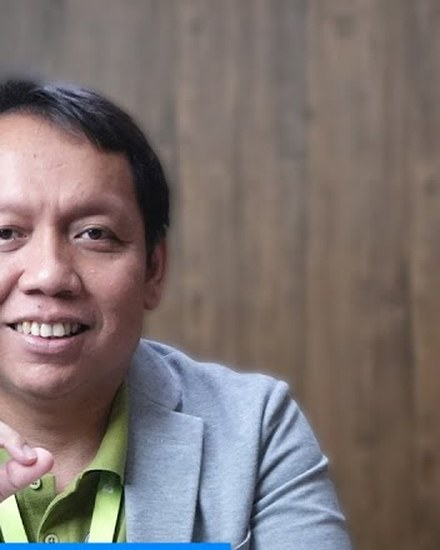
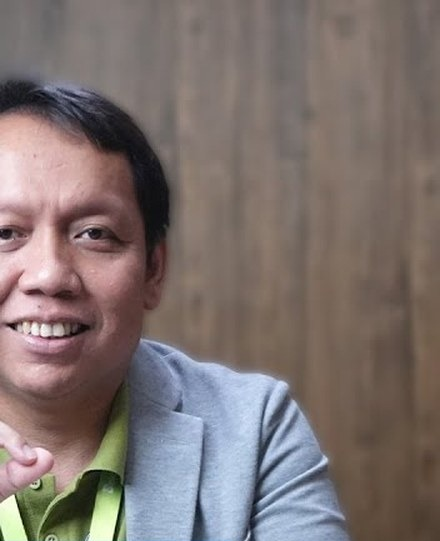
Testimonial photos: WSE AI lounge, Hargyo centered, brand cleanup, Matana in Education row

diff --git a/industries/education/index.html b/industries/education/index.html
@@ -264,7 +264,7 @@
 <section class="ih-trust" aria-labelledby="trust-h">
   <div class="wrap">
     <h2 class="ih-trust__h" id="trust-h"><span>Trusted by leading schools, universities and brands</span></h2>
-    <ul class="tlg tlg--row tlg--strong"><li><img class="tlg__tall" src="./assets/logos/wall-street-english.png" alt="Wall Street English" width="206" height="143" loading="lazy"></li><li><img src="./assets/logos/politeknik-multimedia-nusantara.png" alt="Multimedia Nusantara Polytechnic" width="354" height="160" loading="lazy"></li><li><img class="tlg__wide" src="./assets/logos/sekolah-ciputra.png" alt="Sekolah Ciputra" width="320" height="40" loading="lazy"></li><li><img src="./assets/logos/telkom-university.png" alt="Telkom University" width="208" height="73" loading="lazy"></li><li><img src="./assets/logos/sbm-itb.png" alt="SBM ITB" width="169" height="55" loading="lazy"></li></ul>
+    <ul class="tlg tlg--row tlg--strong"><li><img class="tlg__tall" src="./assets/logos/wall-street-english.png" alt="Wall Street English" width="206" height="143" loading="lazy"></li><li><img src="./assets/logos/politeknik-multimedia-nusantara.png" alt="Multimedia Nusantara Polytechnic" width="354" height="160" loading="lazy"></li><li><img class="tlg__wide" src="./assets/logos/sekolah-ciputra.png" alt="Sekolah Ciputra" width="320" height="40" loading="lazy"></li><li><img src="./assets/logos/telkom-university.png" alt="Telkom University" width="208" height="73" loading="lazy"></li><li><img src="./assets/logos/sbm-itb.png" alt="SBM ITB" width="169" height="55" loading="lazy"></li><li><img src="./assets/logos/matana-university-mono.png" alt="Matana University" width="800" height="294" loading="lazy"></li></ul>
     <p class="tlg__lbl"><span>Other brands</span></p>
     <div class="tlm" aria-label="Other brands using Cekat">
       <div class="tlm__track"><ul class="tlm__list"><li><img src="./assets/logos/thomson-hospital-kota-damansara.png" alt="Thomson Hospital Kota Damansara" width="400" height="169" style="height:29px" loading="lazy"></li><li><img src="./assets/logos/euromedica.png" alt="EuroMedica" width="108" height="40" style="height:27px" loading="lazy"></li><li><img src="./assets/logos/orange-dental.png" alt="Orange Dental" width="211" height="70" style="height:25px" loading="lazy"></li><li><img src="./assets/logos/vio-optical-clinic.png" alt="VIO Optical Clinic" width="324" height="160" style="height:31px" loading="lazy"></li><li><img src="./assets/logos/dokterhub.png" alt="DokterHub" width="400" height="85" style="height:21px" loading="lazy"></li><li><img src="./assets/logos/siloam.png" alt="Siloam Hospitals" width="317" height="50" style="height:19px" loading="lazy"></li><li><img src="./assets/logos/sozo-dental.svg" alt="Sozo Dental" width="114" height="21" style="height:20px" loading="lazy"></li><li><img src="./assets/logos/sociamedic.png" alt="Sociamedic Clinic" width="502" height="170" style="height:26px" loading="lazy"></li><li><img src="./assets/logos/moir-salon.png" alt="Moir Salon" width="676" height="160" style="height:22px" loading="lazy"></li><li><img class="tlm__mark" src="./assets/logos/bosch-car-service.png" alt="" width="384" height="384" style="height:24px" loading="lazy"><span>Bosch Car Service</span></li><li><img src="./assets/logos/celcomdigi.png" alt="CelcomDigi" width="632" height="192" style="height:25px" loading="lazy"></li><li><img class="tlm__mark" src="./assets/logos/tone-wow-mark.png" alt="" width="96" height="96" style="height:24px" loading="lazy"><span>Tone Wow</span></li><li><img src="./assets/logos/propertyguru.png" alt="PropertyGuru" width="274" height="64" style="height:22px" loading="lazy"></li><li><img src="./assets/logos/itsu.png" alt="ITSU" width="250" height="91" style="height:28px" loading="lazy"></li><li><img src="./assets/logos/gamal.png" alt="GAMAL" width="800" height="200" style="height:20px" loading="lazy"></li><li><img class="tlm__mark" src="./assets/logos/midas-cuan.png" alt="" width="192" height="192" style="height:24px" loading="lazy"><span>Midas Cuan</span></li><li><img src="./assets/logos/natures-craft.png" alt="Nature's Craft" width="187" height="198" style="height:36px" loading="lazy"></li><li><img src="./assets/logos/gps-supertrack.png" alt="GPS Supertrack" width="160" height="25" style="height:17px" loading="lazy"></li><li><img src="./assets/logos/kopi-kenangan.png" alt="Kopi Kenangan" width="325" height="160" style="height:31px" loading="lazy"></li><li><img src="./assets/logos/jago.png" alt="Bank Jago" width="220" height="62" style="height:24px" loading="lazy"></li><li><img src="./assets/logos/asuransi-sinarmas.png" alt="Asuransi Sinarmas" width="240" height="58" style="height:22px" loading="lazy"></li><li><img src="./assets/logos/kb-insurance.png" alt="KB Insurance Indonesia" width="280" height="31" style="height:16px" loading="lazy"></li><li><img src="./assets/logos/tiki-logo.png" alt="TIKI" width="276" height="75" style="height:24px" loading="lazy"></li><li><img src="./assets/logos/ancol.png" alt="Ancol" width="287" height="89" style="height:25px" loading="lazy"></li><li><img src="./assets/logos/klik-indogrosir.png" alt="Klik Indogrosir" width="260" height="51" style="height:20px" loading="lazy"></li><li><img src="./assets/logos/mganik.png" alt="mGanik" width="431" height="110" style="height:23px" loading="lazy"></li><li><img src="./assets/logos/realfood.png" alt="Realfood" width="233" height="69" style="height:25px" loading="lazy"></li><li><img src="./assets/logos/aice.png" alt="Aice" width="122" height="56" style="height:30px" loading="lazy"></li><li><img src="./assets/logos/rumah-zakat.png" alt="Rumah Zakat" width="445" height="160" style="height:27px" loading="lazy"></li><li><img src="./assets/logos/mnc.png" alt="MNC" width="220" height="104" style="height:30px" loading="lazy"></li><li><img src="./assets/logos/pln.png" alt="PLN" width="130" height="173" style="height:40px" loading="lazy"></li><li><img src="./assets/logos/rata.png" alt="Rata" width="286" height="160" style="height:33px" loading="lazy"></li><li><img src="./assets/logos/hachi-group.png" alt="Hachi Group" width="196" height="20" style="height:15px" loading="lazy"></li><li><img src="./assets/logos/healthy-go.png" alt="Healthy Go" width="180" height="108" style="height:34px" loading="lazy"></li><li><img src="./assets/logos/puffy-cotton-candy-id.png" alt="Puffy Cotton Candy" width="530" height="261" style="height:30px" loading="lazy"></li><li><img src="./assets/logos/agung-sedayu-group.png" alt="Agung Sedayu Group" width="800" height="106" style="height:17px" loading="lazy"></li><li><img src="./assets/logos/backpacker-korea.png" alt="Backpacker Korea" width="600" height="146" style="height:23px" loading="lazy"></li><li><img src="./assets/logos/hobi-holidays.png" alt="Hobi Holidays" width="700" height="476" style="height:36px" loading="lazy"></li><li><img src="./assets/logos/yupi-mono.png" alt="Yupi" width="739" height="415" style="height:34px" loading="lazy"></li><li><img src="./assets/logos/scarlett.png" alt="Scarlett" width="114" height="14" style="height:14px" loading="lazy"></li><li><img src="./assets/logos/fumida.png" alt="Fumida" width="467" height="76" style="height:19px" loading="lazy"></li><li><img src="./assets/logos/ljn.png" alt="LJN" width="225" height="98" style="height:29px" loading="lazy"></li><li><img src="./assets/logos/tjm-autocare.png" alt="TJM Autocare" width="800" height="319" style="height:28px" loading="lazy"></li><li><img src="./assets/logos/graha-pesona-cikeas.png" alt="Graha Pesona Cikeas" width="400" height="146" style="height:27px" loading="lazy"></li><li><img src="./assets/logos/printhink.svg" alt="Printhink" width="143" height="36" style="height:23px" loading="lazy"></li></ul><ul class="tlm__list" aria-hidden="true"><li><img src="./assets/logos/thomson-hospital-kota-damansara.png" alt="" width="400" height="169" style="height:29px" loading="lazy"></li><li><img src="./assets/logos/euromedica.png" alt="" width="108" height="40" style="height:27px" loading="lazy"></li><li><img src="./assets/logos/orange-dental.png" alt="" width="211" height="70" style="height:25px" loading="lazy"></li><li><img src="./assets/logos/vio-optical-clinic.png" alt="" width="324" height="160" style="height:31px" loading="lazy"></li><li><img src="./assets/logos/dokterhub.png" alt="" width="400" height="85" style="height:21px" loading="lazy"></li><li><img src="./assets/logos/siloam.png" alt="" width="317" height="50" style="height:19px" loading="lazy"></li><li><img src="./assets/logos/sozo-dental.svg" alt="" width="114" height="21" style="height:20px" loading="lazy"></li><li><img src="./assets/logos/sociamedic.png" alt="" width="502" height="170" style="height:26px" loading="lazy"></li><li><img src="./assets/logos/moir-salon.png" alt="" width="676" height="160" style="height:22px" loading="lazy"></li><li><img class="tlm__mark" src="./assets/logos/bosch-car-service.png" alt="" width="384" height="384" style="height:24px" loading="lazy"><span>Bosch Car Service</span></li><li><img src="./assets/logos/celcomdigi.png" alt="" width="632" height="192" style="height:25px" loading="lazy"></li><li><img class="tlm__mark" src="./assets/logos/tone-wow-mark.png" alt="" width="96" height="96" style="height:24px" loading="lazy"><span>Tone Wow</span></li><li><img src="./assets/logos/propertyguru.png" alt="" width="274" height="64" style="height:22px" loading="lazy"></li><li><img src="./assets/logos/itsu.png" alt="" width="250" height="91" style="height:28px" loading="lazy"></li><li><img src="./assets/logos/gamal.png" alt="" width="800" height="200" style="height:20px" loading="lazy"></li><li><img class="tlm__mark" src="./assets/logos/midas-cuan.png" alt="" width="192" height="192" style="height:24px" loading="lazy"><span>Midas Cuan</span></li><li><img src="./assets/logos/natures-craft.png" alt="" width="187" height="198" style="height:36px" loading="lazy"></li><li><img src="./assets/logos/gps-supertrack.png" alt="" width="160" height="25" style="height:17px" loading="lazy"></li><li><img src="./assets/logos/kopi-kenangan.png" alt="" width="325" height="160" style="height:31px" loading="lazy"></li><li><img src="./assets/logos/jago.png" alt="" width="220" height="62" style="height:24px" loading="lazy"></li><li><img src="./assets/logos/asuransi-sinarmas.png" alt="" width="240" height="58" style="height:22px" loading="lazy"></li><li><img src="./assets/logos/kb-insurance.png" alt="" width="280" height="31" style="height:16px" loading="lazy"></li><li><img src="./assets/logos/tiki-logo.png" alt="" width="276" height="75" style="height:24px" loading="lazy"></li><li><img src="./assets/logos/ancol.png" alt="" width="287" height="89" style="height:25px" loading="lazy"></li><li><img src="./assets/logos/klik-indogrosir.png" alt="" width="260" height="51" style="height:20px" loading="lazy"></li><li><img src="./assets/logos/mganik.png" alt="" width="431" height="110" style="height:23px" loading="lazy"></li><li><img src="./assets/logos/realfood.png" alt="" width="233" height="69" style="height:25px" loading="lazy"></li><li><img src="./assets/logos/aice.png" alt="" width="122" height="56" style="height:30px" loading="lazy"></li><li><img src="./assets/logos/rumah-zakat.png" alt="" width="445" height="160" style="height:27px" loading="lazy"></li><li><img src="./assets/logos/mnc.png" alt="" width="220" height="104" style="height:30px" loading="lazy"></li><li><img src="./assets/logos/pln.png" alt="" width="130" height="173" style="height:40px" loading="lazy"></li><li><img src="./assets/logos/rata.png" alt="" width="286" height="160" style="height:33px" loading="lazy"></li><li><img src="./assets/logos/hachi-group.png" alt="" width="196" height="20" style="height:15px" loading="lazy"></li><li><img src="./assets/logos/healthy-go.png" alt="" width="180" height="108" style="height:34px" loading="lazy"></li><li><img src="./assets/logos/puffy-cotton-candy-id.png" alt="" width="530" height="261" style="height:30px" loading="lazy"></li><li><img src="./assets/logos/agung-sedayu-group.png" alt="" width="800" height="106" style="height:17px" loading="lazy"></li><li><img src="./assets/logos/backpacker-korea.png" alt="" width="600" height="146" style="height:23px" loading="lazy"></li><li><img src="./assets/logos/hobi-holidays.png" alt="" width="700" height="476" style="height:36px" loading="lazy"></li><li><img src="./assets/logos/yupi-mono.png" alt="" width="739" height="415" style="height:34px" loading="lazy"></li><li><img src="./assets/logos/scarlett.png" alt="" width="114" height="14" style="height:14px" loading="lazy"></li><li><img src="./assets/logos/fumida.png" alt="" width="467" height="76" style="height:19px" loading="lazy"></li><li><img src="./assets/logos/ljn.png" alt="" width="225" height="98" style="height:29px" loading="lazy"></li><li><img src="./assets/logos/tjm-autocare.png" alt="" width="800" height="319" style="height:28px" loading="lazy"></li><li><img src="./assets/logos/graha-pesona-cikeas.png" alt="" width="400" height="146" style="height:27px" loading="lazy"></li><li><img src="./assets/logos/printhink.svg" alt="" width="143" height="36" style="height:23px" loading="lazy"></li></ul></div>
@@ -277,7 +277,7 @@
   <div class="wrap">
     <div class="sec-head rv"><p class="eyebrow">Key results</p><h2 class="ih-h2">Real results for schools.<br><span class="ih-blue">With Cekat.</span></h2></div>
     <div class="ih-res ih-res--long ih-res--3"><div class="ih-stat rv" style="--d:0.00s"><div class="ih-stat__top"><!-- PLACEHOLDER: confirm with real client data before going live --><b class="ih-stat__n" data-placeholder="true" data-count="24/7">24/7</b></div><p class="ih-stat__t">Inquiries handled</p><p class="ih-stat__s">Course, tuition and enrollment questions answered anytime</p></div><div class="ih-stat rv" style="--d:0.06s"><div class="ih-stat__top"><!-- PLACEHOLDER: confirm with real client data before going live --><b class="ih-stat__n" data-placeholder="true" data-count="90%">90%</b><span class="ih-up" aria-hidden="true"><svg viewBox="0 0 16 16"><path d="M5 11 11 5M6 5h5v5"/></svg></span></div><p class="ih-stat__t">Fewer missed classes</p><p class="ih-stat__s">Automated class reminders keep students on schedule</p></div><div class="ih-stat rv" style="--d:0.12s"><div class="ih-stat__top"><!-- PLACEHOLDER: confirm with real client data before going live --><b class="ih-stat__n" data-placeholder="true" data-count="2x">2x</b><span class="ih-up" aria-hidden="true"><svg viewBox="0 0 16 16"><path d="M5 11 11 5M6 5h5v5"/></svg></span></div><p class="ih-stat__t">More students handled</p><p class="ih-stat__s">Handle twice as many student inquiries without increasing headcount</p></div></div>
-    <div class="tcar rv" data-tcar role="region" aria-roledescription="carousel" aria-label="Customer stories"><div class="tcar__vp" tabindex="0"><article class="tcase" role="group" aria-roledescription="slide" aria-label="1 of 3: Wall Street English"><div class="tcase__photo"><img src="./assets/stories/wall-street-english-gandaria-city.webp" width="960" height="1030" decoding="async" alt="Wall Street English centre at Gandaria City, photo from wallstreetenglish.co.id" style="object-position:50% 55%"></div><div class="tcase__body"><div class="tcase__top"><img class="tcase__logo" src="./assets/logos/wall-street-english-color.png" width="376" height="265" style="max-height:265px" alt="Wall Street English logo"><span class="tcase__tag">Case study, Indonesia</span></div><p class="tcase__stat"><b>28%</b><span class="tcase__dir tcase__dir--up" role="img" aria-label="Increase"><svg viewBox="0 0 24 24" aria-hidden="true"><path d="M7 17 17 7"/><path d="M9 7h8v8"/></svg></span><span>conversion rate, up from 20%</span></p><figure class="tcase__q"><blockquote><p>“We built an AI test, and that can run on Cekat AI too. So Cekat AI helps us filter the many kinds of incoming leads that may be low quality.”</p></blockquote><figcaption><cite>Bayu</cite>, Head of Digital Marketing, Wall Street English</figcaption></figure><p class="tcase__meta">International English language school franchise.</p></div></article><article class="tcase" role="group" aria-roledescription="slide" aria-label="2 of 3: Multimedia Nusantara Polytechnic"><div class="tcase__photo"><img src="./assets/stories/mnp-person.jpg" width="290" height="540" decoding="async" alt="Hargyo T. N. Ignatius of Multimedia Nusantara Polytechnic, from the Cekat success-story video" style="object-position:50% 30%"></div><div class="tcase__body"><div class="tcase__top"><img class="tcase__logo tcase__logo--mono" src="./assets/logos/politeknik-multimedia-nusantara.png" width="354" height="160" style="max-height:160px" alt="Multimedia Nusantara Polytechnic logo"><span class="tcase__tag">Case study, Indonesia</span></div><p class="tcase__stat"><b>90%</b><span class="tcase__dir tcase__dir--up" role="img" aria-label="Increase"><svg viewBox="0 0 24 24" aria-hidden="true"><path d="M7 17 17 7"/><path d="M9 7h8v8"/></svg></span><span>increase in responses</span></p><figure class="tcase__q"><blockquote><p>“We recorded a very significant increase in responses. Our responses went up 90%.”</p></blockquote><figcaption><cite>Hargyo T. N. Ignatius, Ph.D.</cite>, Director, Multimedia Nusantara Polytechnic</figcaption></figure><p class="tcase__meta">Private polytechnic focused on digital skills and project-based learning with real clients.</p></div></article><article class="tcase" role="group" aria-roledescription="slide" aria-label="3 of 3: Matana University"><div class="tcase__photo"><img src="./assets/stories/ai-matana-university.webp" width="960" height="960" decoding="async" alt="Illustrative AI-generated image of a university campus, not a photo of Matana University" style="object-position:50% 55%"></div><div class="tcase__body"><div class="tcase__top"><img class="tcase__logo" src="./assets/logos/matana-university.png" width="800" height="294" style="max-height:294px" alt="Matana University logo"><span class="tcase__tag">Case study, Indonesia</span></div><p class="tcase__stat"><b>60–70%</b><span class="tcase__dir tcase__dir--up" role="img" aria-label="Increase"><svg viewBox="0 0 24 24" aria-hidden="true"><path d="M7 17 17 7"/><path d="M9 7h8v8"/></svg></span><span>more new students</span></p><figure class="tcase__q"><blockquote><p>“Student numbers went up almost 60–70%. And when we tracked it, most of those closings came down to how well my team responded to messages.”</p></blockquote><figcaption><cite>Matana University</cite></figcaption></figure><p class="tcase__meta">Private university that moved from slow manual replies to around 100 chats a day.</p></div></article></div><div class="tcar__nav"><button type="button" class="tcar__btn tcar__prev" aria-label="Previous story"><svg viewBox="0 0 20 20" aria-hidden="true"><path d="M12.5 4.5 7 10l5.5 5.5"/></svg></button><div class="tcar__dots"><button type="button" class="tcar__dot" aria-label="Show story 1: Wall Street English" aria-current="true"></button><button type="button" class="tcar__dot" aria-label="Show story 2: Multimedia Nusantara Polytechnic"></button><button type="button" class="tcar__dot" aria-label="Show story 3: Matana University"></button></div><button type="button" class="tcar__btn tcar__next" aria-label="Next story"><svg viewBox="0 0 20 20" aria-hidden="true"><path d="M7.5 4.5 13 10l-5.5 5.5"/></svg></button></div></div>
+    <div class="tcar rv" data-tcar role="region" aria-roledescription="carousel" aria-label="Customer stories"><div class="tcar__vp" tabindex="0"><article class="tcase" role="group" aria-roledescription="slide" aria-label="1 of 3: Wall Street English"><div class="tcase__photo"><img src="./assets/stories/wall-street-english-lounge-ai.webp" width="1024" height="1024" decoding="async" alt="Illustrative AI image of a bright English-school student lounge" style="object-position:50% 50%"></div><div class="tcase__body"><div class="tcase__top"><img class="tcase__logo" src="./assets/logos/wall-street-english-color.png" width="376" height="265" style="max-height:265px" alt="Wall Street English logo"><span class="tcase__tag">Case study, Indonesia</span></div><p class="tcase__stat"><b>28%</b><span class="tcase__dir tcase__dir--up" role="img" aria-label="Increase"><svg viewBox="0 0 24 24" aria-hidden="true"><path d="M7 17 17 7"/><path d="M9 7h8v8"/></svg></span><span>conversion rate, up from 20%</span></p><figure class="tcase__q"><blockquote><p>“We built an AI test, and that can run on Cekat AI too. So Cekat AI helps us filter the many kinds of incoming leads that may be low quality.”</p></blockquote><figcaption><cite>Bayu</cite>, Head of Digital Marketing, Wall Street English</figcaption></figure><p class="tcase__meta">International English language school franchise.</p></div></article><article class="tcase" role="group" aria-roledescription="slide" aria-label="2 of 3: Multimedia Nusantara Polytechnic"><div class="tcase__photo"><img src="./assets/stories/mnp-person-centered.jpg" width="480" height="540" decoding="async" alt="Hargyo T. N. Ignatius of Multimedia Nusantara Polytechnic, from the Cekat success-story video" style="object-position:50% 30%"></div><div class="tcase__body"><div class="tcase__top"><img class="tcase__logo tcase__logo--mono" src="./assets/logos/politeknik-multimedia-nusantara.png" width="354" height="160" style="max-height:160px" alt="Multimedia Nusantara Polytechnic logo"><span class="tcase__tag">Case study, Indonesia</span></div><p class="tcase__stat"><b>90%</b><span class="tcase__dir tcase__dir--up" role="img" aria-label="Increase"><svg viewBox="0 0 24 24" aria-hidden="true"><path d="M7 17 17 7"/><path d="M9 7h8v8"/></svg></span><span>increase in responses</span></p><figure class="tcase__q"><blockquote><p>“We recorded a very significant increase in responses. Our responses went up 90%.”</p></blockquote><figcaption><cite>Hargyo T. N. Ignatius, Ph.D.</cite>, Director, Multimedia Nusantara Polytechnic</figcaption></figure><p class="tcase__meta">Private polytechnic focused on digital skills and project-based learning with real clients.</p></div></article><article class="tcase" role="group" aria-roledescription="slide" aria-label="3 of 3: Matana University"><div class="tcase__photo"><img src="./assets/stories/ai-matana-university.webp" width="960" height="960" decoding="async" alt="Illustrative AI-generated image of a university campus, not a photo of Matana University" style="object-position:50% 55%"></div><div class="tcase__body"><div class="tcase__top"><img class="tcase__logo" src="./assets/logos/matana-university.png" width="800" height="294" style="max-height:294px" alt="Matana University logo"><span class="tcase__tag">Case study, Indonesia</span></div><p class="tcase__stat"><b>60–70%</b><span class="tcase__dir tcase__dir--up" role="img" aria-label="Increase"><svg viewBox="0 0 24 24" aria-hidden="true"><path d="M7 17 17 7"/><path d="M9 7h8v8"/></svg></span><span>more new students</span></p><figure class="tcase__q"><blockquote><p>“Student numbers went up almost 60–70%. And when we tracked it, most of those closings came down to how well my team responded to messages.”</p></blockquote><figcaption><cite>Matana University</cite></figcaption></figure><p class="tcase__meta">Private university that moved from slow manual replies to around 100 chats a day.</p></div></article></div><div class="tcar__nav"><button type="button" class="tcar__btn tcar__prev" aria-label="Previous story"><svg viewBox="0 0 20 20" aria-hidden="true"><path d="M12.5 4.5 7 10l5.5 5.5"/></svg></button><div class="tcar__dots"><button type="button" class="tcar__dot" aria-label="Show story 1: Wall Street English" aria-current="true"></button><button type="button" class="tcar__dot" aria-label="Show story 2: Multimedia Nusantara Polytechnic"></button><button type="button" class="tcar__dot" aria-label="Show story 3: Matana University"></button></div><button type="button" class="tcar__btn tcar__next" aria-label="Next story"><svg viewBox="0 0 20 20" aria-hidden="true"><path d="M7.5 4.5 13 10l-5.5 5.5"/></svg></button></div></div>
     <p class="ih-res__note rv">*Results may vary based on implementation, business conditions, and usage.</p>
   </div>
 </section>
